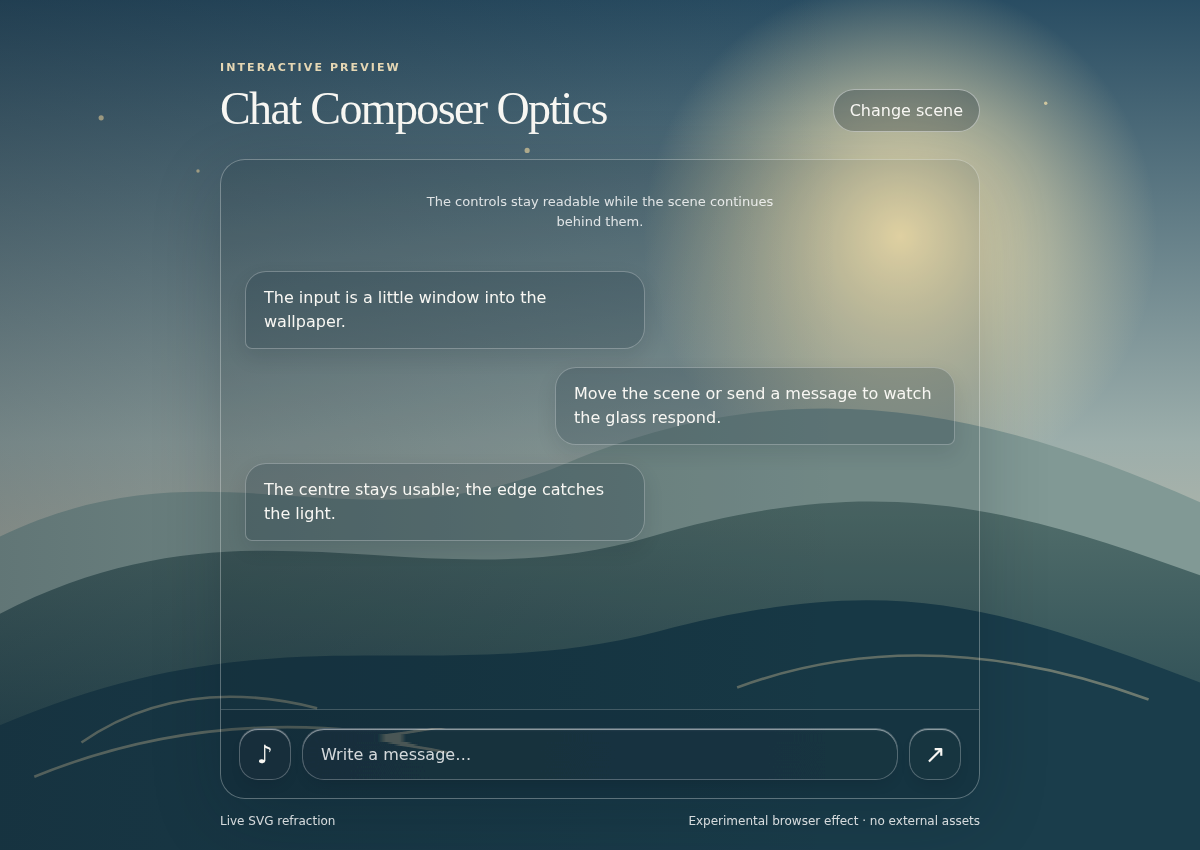
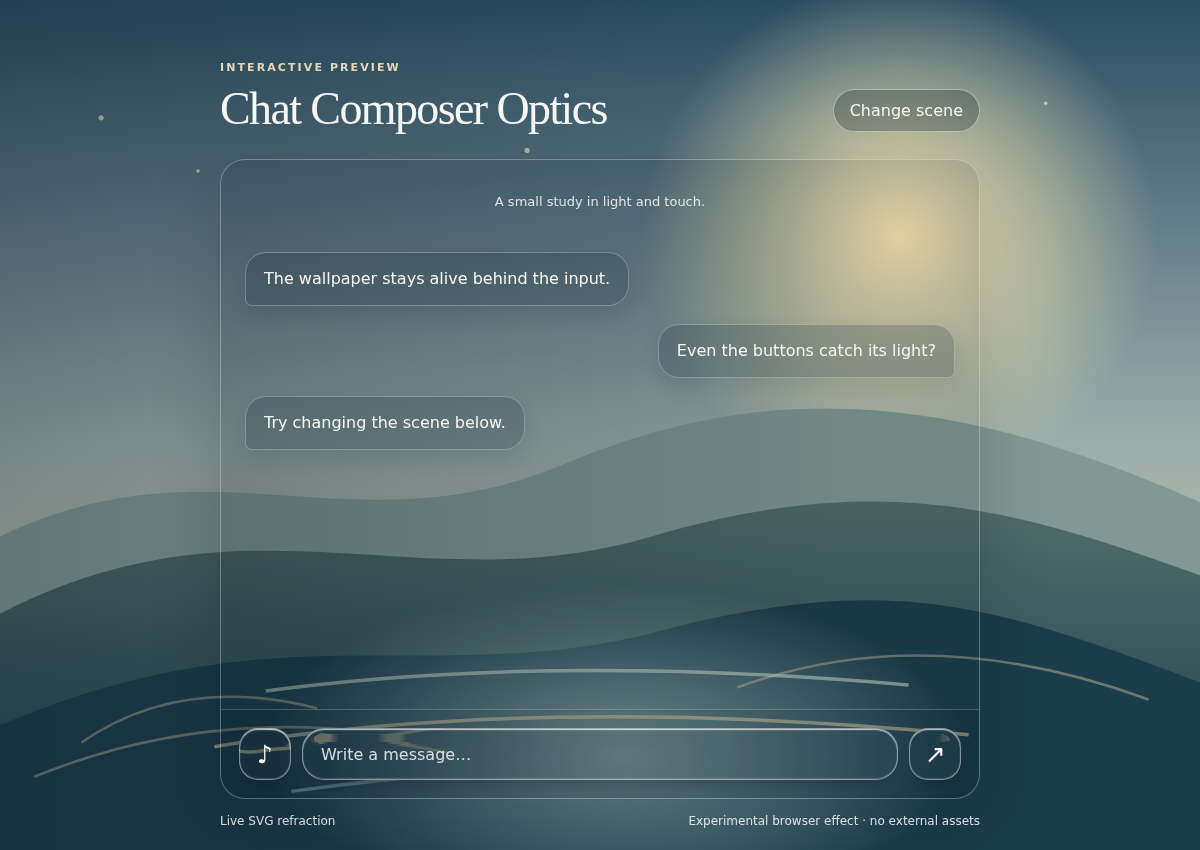
Improve mobile composer preview and glass contrast

diff --git a/style.css b/style.css
@@ -19,7 +19,7 @@ button { cursor: pointer; color: inherit; font: inherit; }
 .message.user { align-self: flex-end; border-bottom-right-radius: 7px; }
 .message.assistant { border-bottom-left-radius: 7px; }
 .composer { display: flex; align-items: center; gap: 11px; padding: 18px; border-top: 1px solid rgba(255,255,255,.2); background: rgba(10,26,37,.09); }
-.optic { position: relative; isolation: isolate; overflow: hidden; border: .5px solid rgba(255,255,255,.26); background: var(--chat-glass-fill, rgba(20,20,24,.16)); -webkit-backdrop-filter: blur(.5px) saturate(var(--chat-glass-saturation,160%)) brightness(var(--chat-glass-brightness,.8)); backdrop-filter: blur(.5px) saturate(var(--chat-glass-saturation,160%)) brightness(var(--chat-glass-brightness,.8)); box-shadow: inset 0 1px .5px rgba(255,255,255,.45), inset 0 3px 3px -3px rgba(255,255,255,.3), 0 8px 18px -12px rgba(10,20,30,.45); }
+.optic { position: relative; isolation: isolate; overflow: hidden; border: 1px solid rgba(255,255,255,.46); background: var(--chat-glass-fill, rgba(20,20,24,.16)); -webkit-backdrop-filter: blur(.5px) saturate(var(--chat-glass-saturation,160%)) brightness(var(--chat-glass-brightness,.8)); backdrop-filter: blur(.5px) saturate(var(--chat-glass-saturation,160%)) brightness(var(--chat-glass-brightness,.8)); box-shadow: inset 0 1px 1px rgba(255,255,255,.65), inset 0 -1px 1px rgba(255,255,255,.18), inset 0 3px 3px -3px rgba(255,255,255,.35), 0 9px 20px -11px rgba(5,17,28,.55); }
 .optic.has-composer-optics, .optic.has-backdrop-refraction { background-color: rgba(48,66,82,.035); }
 .optic.has-composer-optics { -webkit-backdrop-filter: none; backdrop-filter: none; }
 .optic > canvas.composer-optics { position: absolute; inset: 0; z-index: 0; width: 100%; height: 100%; pointer-events: none; }
@@ -32,4 +32,4 @@ button { cursor: pointer; color: inherit; font: inherit; }
 .mic:hover, .send:hover { border-color: rgba(255,255,255,.7); }
 footer { padding-top: 15px; color: rgba(255,255,255,.82); font-size: 12px; }
 @media (prefers-reduced-transparency: reduce) { .optic { background: #294557 !important; background-image: none !important; backdrop-filter: none !important; -webkit-backdrop-filter: none !important; } .optic > canvas { display: none; } }
-@media (max-width: 520px) { .demo { width: 100%; padding: 20px 12px 12px; } .topbar { padding-inline: 4px; } .conversation { border-radius: 19px; } .messages { padding: 18px 14px; } .message { max-width: 84%; } .composer { padding: 12px; gap: 8px; } .composer-field { height: 48px; } .mic, .send { width: 48px; height: 48px; } footer span:last-child { display: none; } }
+@media (max-width: 520px) { .demo { width: 100%; padding: 18px 12px 12px; } .topbar { position: relative; display: block; padding-inline: 4px; min-height: 103px; } .topbar h1 { font-size: clamp(27px, 7.4vw, 31px); white-space: nowrap; letter-spacing: -.045em; margin: 22px 0 14px; } .topbar .scene { position: absolute; right: 4px; top: 0; margin: 0; padding: 7px 11px; font-size: 12px; } .conversation { border-radius: 20px; } .messages { padding: 19px 15px; gap: 16px; } .hint { margin: 9px 0 25px; font-size: 12px; } .message { max-width: 83%; padding: 12px 16px; font-size: 15px; } .composer { padding: 14px 12px; gap: 9px; background: rgba(9,27,38,.12); } .composer-field { height: 54px; border-radius: 22px; } .mic, .send { width: 54px; height: 54px; border-radius: 20px; } .composer-field input { padding-inline: 15px; font-size: 15px; } footer { padding: 12px 4px 0; } footer span:last-child { display: none; } }

diff --git a/index.html b/index.html
@@ -15,10 +15,10 @@
     </header>
     <section class="conversation" aria-label="Demo conversation">
       <div class="messages" id="messages">
-        <p class="hint">The controls stay readable while the scene continues behind them.</p>
-        <div class="message assistant">The input is a little window into the wallpaper.</div>
-        <div class="message user">Move the scene or send a message to watch the glass respond.</div>
-        <div class="message assistant">The centre stays usable; the edge catches the light.</div>
+        <p class="hint">A small study in light and touch.</p>
+        <div class="message assistant">The wallpaper stays alive behind the input.</div>
+        <div class="message user">Even the buttons catch its light?</div>
+        <div class="message assistant">Try changing the scene below.</div>
       </div>
       <form class="composer" id="composer">
         <button class="mic optic" type="button" aria-label="Microphone demo"><span>♪</span></button>
